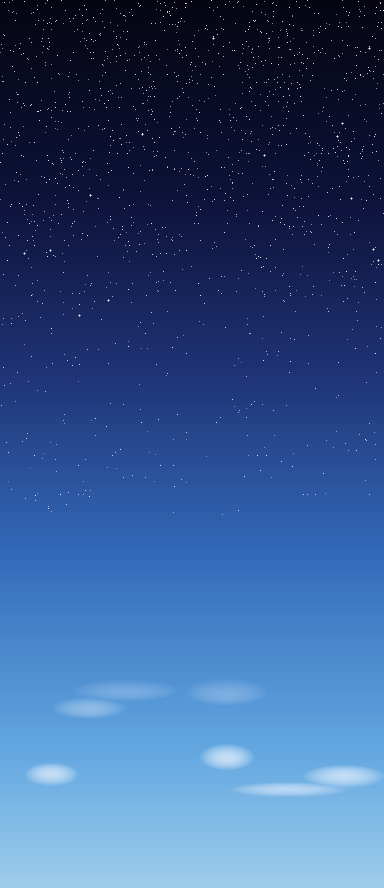
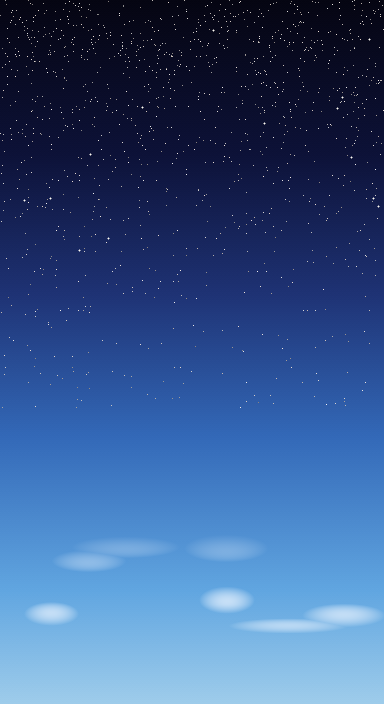
Add parallax to the sky
- ParallaxLayer: moves a background layer by a fraction of the camera's
  movement so it reads as distant. The sky follows at 0.3.
- Sky regenerated at 44 units tall instead of 55.5. A layer that follows
  the camera is crossed more slowly than the world, so the old height
  would have left the summit in mid-atmosphere instead of the starfield.
  44 units is the span the camera now traverses, with about a unit of
  margin at each edge.
- Measured: the sky travels exactly 30% of the camera, and covers the
  view at both ends of the climb.

Changed region(s): [[0.875, 0.8438, 0.9375, 0.875], [0.5625, 0.8438, 0.5938, 0.875], [0.125, 0.8438, 0.1562, 0.875]]

diff --git a/Assets/Scripts/Camera/ParallaxLayer.cs b/Assets/Scripts/Camera/ParallaxLayer.cs
@@ -1,0 +1,53 @@
+using UnityEngine;
+
+namespace SkySteps.Cameras
+{
+    /// <summary>
+    /// Moves a background layer by a fraction of the camera's movement, so it reads as distant.
+    /// A factor of 0 leaves the layer fixed in the world; 1 glues it to the camera and it never
+    /// appears to move at all.
+    ///
+    /// A layer that follows the camera is crossed more slowly than the world, so it must be shorter
+    /// than the area it backs, or the camera will run off its edge.
+    /// </summary>
+    [DisallowMultipleComponent]
+    public sealed class ParallaxLayer : MonoBehaviour
+    {
+        [SerializeField] private Transform cameraTransform;
+
+        [Tooltip("How much of the camera's movement this layer copies. Lower reads as further away.")]
+        [SerializeField, Range(0f, 1f)] private float followFactor = 0.3f;
+
+        private Vector3 _layerStart;
+        private Vector3 _cameraStart;
+        private bool _captured;
+
+        private void Awake()
+        {
+            if (cameraTransform == null)
+            {
+                Debug.LogError($"{nameof(ParallaxLayer)}: no camera assigned.", this);
+                enabled = false;
+            }
+        }
+
+        private void LateUpdate()
+        {
+            // Captured on the first late update rather than in Awake, so it happens after the camera
+            // has snapped to the player and the layer's authored alignment still holds.
+            if (!_captured)
+            {
+                _layerStart = transform.position;
+                _cameraStart = cameraTransform.position;
+                _captured = true;
+                return;
+            }
+
+            Vector3 travelled = cameraTransform.position - _cameraStart;
+            transform.position = new Vector3(
+                _layerStart.x + travelled.x * followFactor,
+                _layerStart.y + travelled.y * followFactor,
+                _layerStart.z);
+        }
+    }
+}
